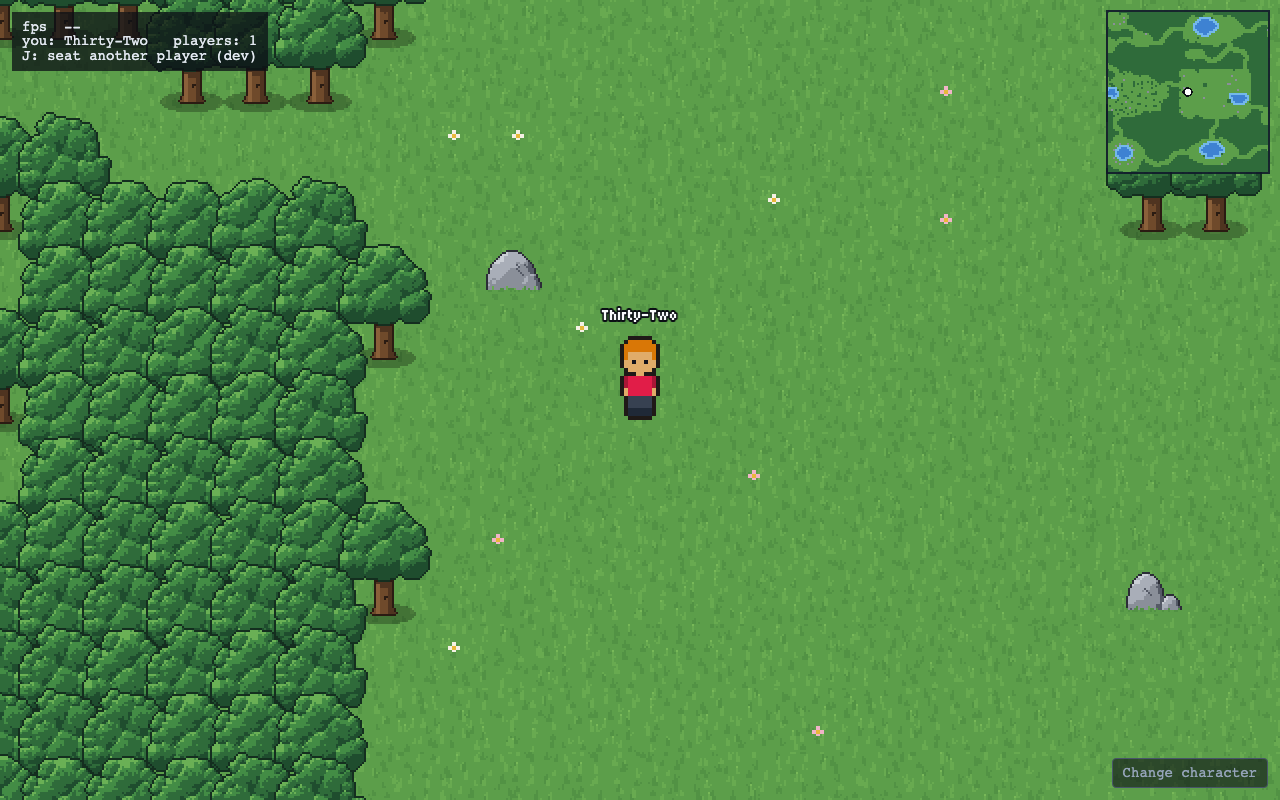
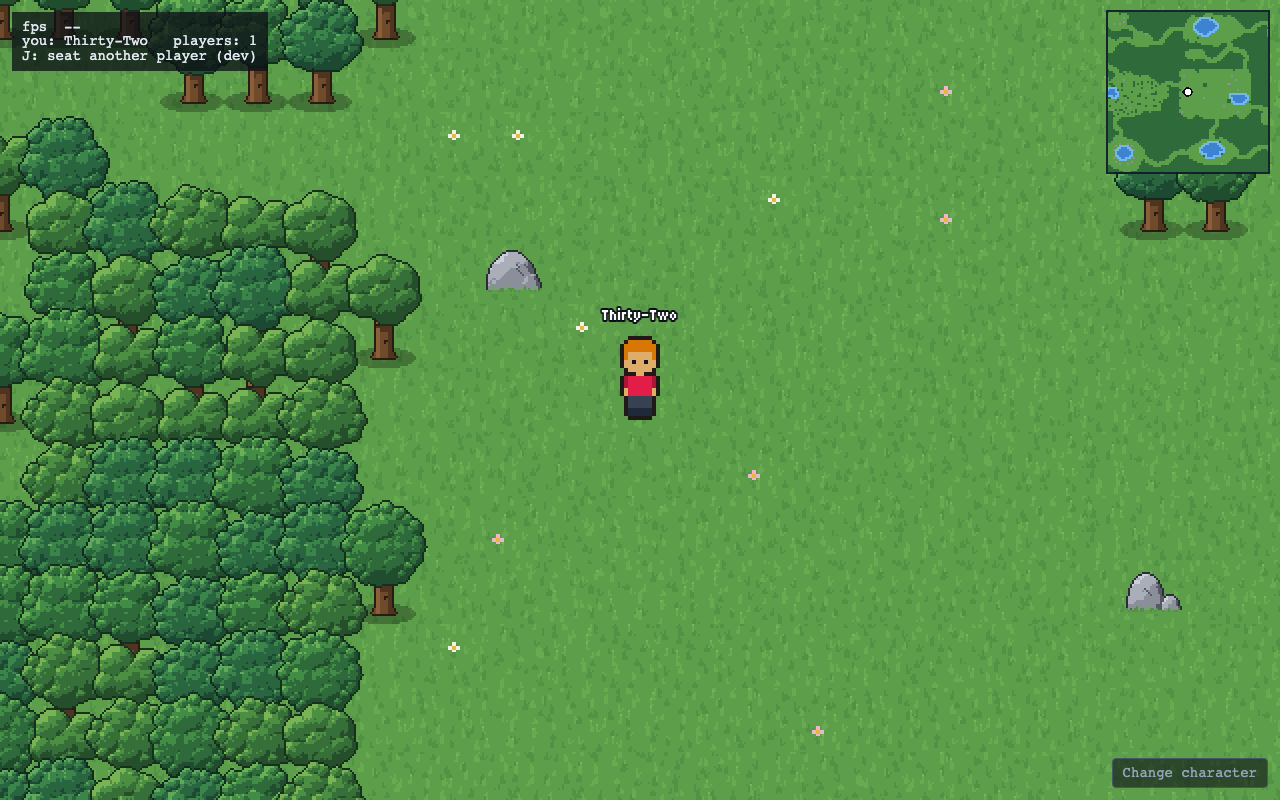
Eight different trees for #64 instead of three: each grown from its own seed, with its own crown width, height and lean, clump sizes, smooth or leafy rim, and one of three close greens
Proof rerun: 72 checks pass.

Changed region(s): [[0.0, 0.125, 0.3438, 1.0], [0.0, 0.0, 0.3125, 0.125], [0.8438, 0.2188, 1.0, 0.2812]]

diff --git a/packages/sim/src/features/terrain/defs.ts b/packages/sim/src/features/terrain/defs.ts
@@ -141,7 +141,7 @@ export const terrainDefs: readonly TileDef[] = [
     shape: 'box',
     color: 0x2f6b3a,
     solid: true,
-    standingSprite: { key: 'tree', frameWidth: 48, frameHeight: 64, pixelsPerMetre: 32, variantCount: 3, groundDefId: TerrainDefId.Grass },
+    standingSprite: { key: 'tree', frameWidth: 48, frameHeight: 64, pixelsPerMetre: 32, variantCount: 8, groundDefId: TerrainDefId.Grass },
   },
   {
     id: TerrainDefId.Rock,
